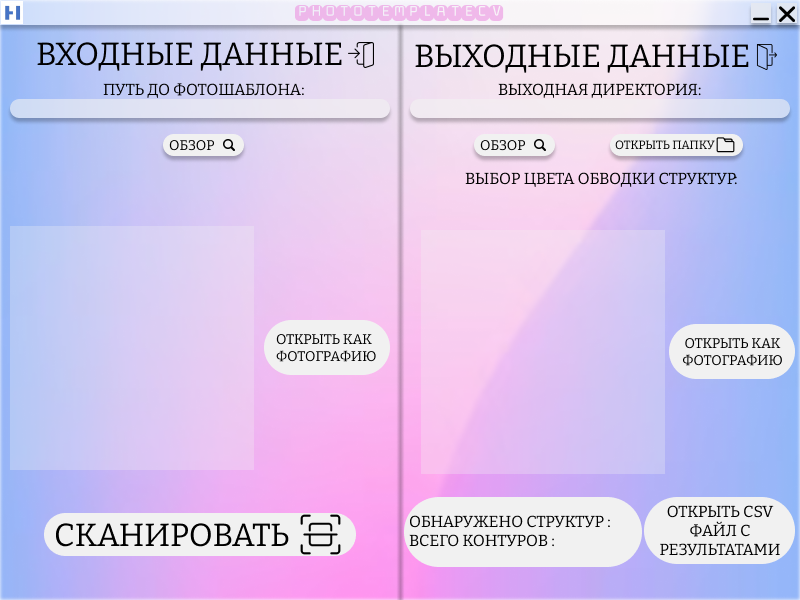
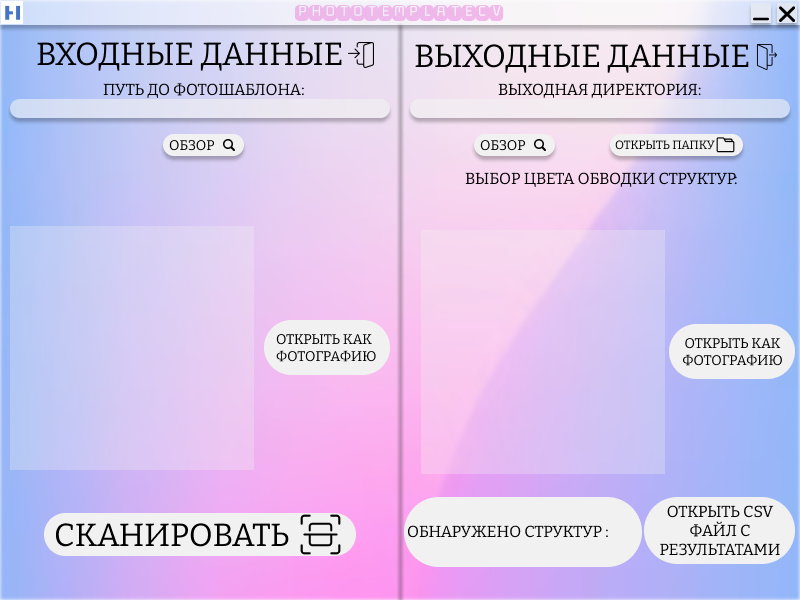
Исправлена ошибка в тексте интро-диалога; Убрана лишняя информация, получаемая из CV (принято решение её не отображать).

Changed region(s): [[0.5, 0.84, 0.75, 0.93]]

diff --git a/PhotoTemplateCV/MainWindow.xaml b/PhotoTemplateCV/MainWindow.xaml
@@ -11,18 +11,17 @@
             <ImageBrush ImageSource="/Resources/background.png"/>
         </Grid.Background>
         <Canvas x:Name="AboutProgram" Margin="292,0,293,576" Background="Transparent" Cursor="Hand" MouseLeftButtonDown="AboutProgram_MouseLeftButtonDown"/>
-        <Canvas x:Name="InputFileBrowse" Margin="162,134,555,443" Background="Transparent" Cursor="Hand" MouseLeftButtonDown="InputFileBrowse_MouseLeftButtonDown"/>
-        <Canvas x:Name="OutputDirectoryBrowse" Margin="474,134,244,443" Background="Transparent" Cursor="Hand" MouseLeftButtonDown="OutputDirectoryBrowse_MouseLeftButtonDown"/>
-        <Canvas x:Name="OpenDirectory" Margin="610,134,57,443" Background="Transparent" Cursor="Hand" MouseLeftButtonDown="OpenDirectory_MouseLeftButtonDown"/>
+        <Canvas x:Name="InputFileBrowse" Margin="162,134,555,443" Background="Transparent" Cursor="Hand" MouseLeftButtonDown="InputFileBrowse_MouseLeftButtonDown" MouseLeave="InputFileBrowse_MouseLeave" MouseEnter="InputFileBrowse_MouseEnter"/>
+        <Canvas x:Name="OutputDirectoryBrowse" Margin="474,134,244,443" Background="Transparent" Cursor="Hand" MouseLeftButtonDown="OutputDirectoryBrowse_MouseLeftButtonDown" MouseLeave="OutputDirectoryBrowse_MouseLeave" MouseEnter="OutputDirectoryBrowse_MouseEnter"/>
+        <Canvas x:Name="OpenDirectory" Margin="610,134,57,443" Background="Transparent" Cursor="Hand" MouseLeftButtonDown="OpenDirectory_MouseLeftButtonDown" MouseLeave="OpenDirectory_MouseLeave" MouseEnter="OpenDirectory_MouseEnter"/>
         <Canvas x:Name="MinimizeButton" Margin="750,3,28,576" Background="#00C8C8C8" Cursor="Hand" MouseLeftButtonDown="MinimizeButton_MouseLeftButtonDown" MouseLeave="MinimizeButton_MouseLeave" MouseEnter="MinimizeButton_MouseEnter" Focusable="True"/>
         <Canvas x:Name="CloseButton" Margin="777,3,3,576" Cursor="Hand" MouseLeftButtonDown="CloseButton_MouseLeftButtonDown" MouseEnter="CloseButton_MouseEnter" MouseLeave="CloseButton_MouseLeave" Background="#00C8C8C8"/>
-        <Canvas x:Name="OpenInputImage" Margin="264,320,409,225" Background="Transparent" Cursor="Hand" MouseLeftButtonDown="OpenInputImage_MouseLeftButtonDown"/>
+        <Canvas x:Name="OpenInputImage" Margin="264,320,409,225" Background="Transparent" Cursor="Hand" MouseLeftButtonDown="OpenInputImage_MouseLeftButtonDown" MouseLeave="OpenInputImage_MouseLeave" MouseEnter="OpenInputImage_MouseEnter"/>
         <Canvas Margin="669,324,3,220" Background="Transparent" Cursor="Hand"/>
-        <Canvas x:Name="ScanButton" Margin="44,513,444,44" Background="Transparent" Cursor="Hand" MouseLeftButtonDown="ScanButton_MouseLeftButtonDown"/>
-        <Canvas x:Name="OpenOutputImage" Margin="669,324,3,220" Background="Transparent" Cursor="Hand" MouseLeftButtonDown="OpenOutputImage_MouseLeftButtonDown"/>
-        <Canvas x:Name="OpenCSVFileButton" Margin="644,497,3,36" Background="Transparent" Cursor="Hand" MouseLeftButtonDown="OpenCSVFileButton_MouseLeftButtonDown"/>
-        <Label x:Name="structuresCountLabel" Content="нет" HorizontalAlignment="Left" Margin="607,507,0,0" VerticalAlignment="Top" Width="37" FontFamily="Bitter" FontSize="16"/>
-        <Label x:Name="contoursCountLabel" Content="нет" HorizontalAlignment="Left" Margin="554,526,0,0" VerticalAlignment="Top" FontFamily="Bitter" FontSize="16"/>
+        <Canvas x:Name="ScanButton" Margin="44,513,444,44" Background="Transparent" Cursor="Hand" MouseLeftButtonDown="ScanButton_MouseLeftButtonDown" MouseLeave="ScanButton_MouseLeave" MouseEnter="ScanButton_MouseEnter"/>
+        <Canvas x:Name="OpenOutputImage" Margin="669,324,3,220" Background="Transparent" Cursor="Hand" MouseLeftButtonDown="OpenOutputImage_MouseLeftButtonDown" MouseLeave="OpenOutputImage_MouseLeave" MouseEnter="OpenOutputImage_MouseEnter"/>
+        <Canvas x:Name="OpenCSVFileButton" Margin="644,497,3,36" Background="Transparent" Cursor="Hand" MouseLeftButtonDown="OpenCSVFileButton_MouseLeftButtonDown" MouseLeave="OpenCSVFileButton_MouseLeave" MouseEnter="OpenCSVFileButton_MouseEnter"/>
+        <Label x:Name="structuresCountLabel" Content="нет" HorizontalAlignment="Left" Margin="607,516,0,0" VerticalAlignment="Top" Width="37" FontFamily="Bitter" FontSize="16"/>
         <Image x:Name="inputImage" HorizontalAlignment="Left" Height="240" Margin="12,228,0,0" VerticalAlignment="Top" Width="240" Stretch="Fill" Cursor="Help" Source="/Resources/fileNotDone.png"/>
         <Image x:Name="outputImage" HorizontalAlignment="Left" Height="240" Margin="423,232,0,0" VerticalAlignment="Top" Width="240" Stretch="Fill" Cursor="Help" Source="/Resources/fileNotDone.png"/>
         <TextBox x:Name="inputFileTextBox" HorizontalAlignment="Left" Margin="10,99,0,0" TextWrapping="Wrap" VerticalAlignment="Top" Width="381" Height="19" Background="Transparent" BorderBrush="#00B3B2AB" Cursor="IBeam" FontFamily="Bitter" FontSize="14" SelectionBrush="#FFC8C8FF" CaretBrush="#FF9A1FE4" MaxLines="1" TextAlignment="Center" VerticalScrollBarVisibility="Disabled" TextChanged="inputFileTextBox_TextChanged"/>

diff --git a/PhotoTemplateCV/MainWindow.xaml.cs b/PhotoTemplateCV/MainWindow.xaml.cs
@@ -46,7 +46,7 @@ namespace PhotoTemplateCV
 
             // Интро-руководство
             if (settingsFileHasBeenRewrite)
-                MessageBox.Show($"Программа позволяет анализировать содержимое изображений, находить геометрические структуры и обозначать их границы линиями из трёх разных цветов: зелёным, голубым и красным. На вход получаются изображения разрешением 240x240px в формате JPG, содержащие структуры на белом фонеПрограмма разделена на две части: для входных и выходных данных.{Environment.NewLine}{Environment.NewLine}Обратите внимание, что в указанную выходную директорию будут сохраняться CSV файл с результатами (при его наличии данные новых сканирований будут добавляться) и выходные изображения (название изображения состоит из названия исходного изображения, постфикса _output и случайной комбинации цифр). По умолчанию выходная директория соответствует рабочей директории программы, изменить её можно в секции выходных данных.{Environment.NewLine}{Environment.NewLine}Авторы проекта: {Environment.NewLine} Николай Юрченко (kolya112) {Environment.NewLine} Даниил Бойков; {Environment.NewLine}{Environment.NewLine} Команда \"Кодовые пионеры\"", "Добро пожаловать в PhotoTemplateCV",
+                MessageBox.Show($"Программа позволяет анализировать содержимое изображений, находить геометрические структуры и обозначать их границы линиями из трёх разных цветов: зелёным, голубым и красным. На вход получаются изображения разрешением 240x240px в формате JPG, содержащие структуры на белом фоне. Программа разделена на две части: для входных и выходных данных.{Environment.NewLine}{Environment.NewLine}Обратите внимание, что в указанную выходную директорию будут сохраняться CSV файл с результатами (при его наличии данные новых сканирований будут добавляться) и выходные изображения (название изображения состоит из названия исходного изображения, постфикса _output и случайной комбинации цифр). По умолчанию выходная директория соответствует рабочей директории программы, изменить её можно в секции выходных данных.{Environment.NewLine}{Environment.NewLine}Авторы проекта: {Environment.NewLine} Николай Юрченко (kolya112) {Environment.NewLine} Даниил Бойков; {Environment.NewLine}{Environment.NewLine} Команда \"Кодовые пионеры\"", "Добро пожаловать в PhotoTemplateCV",
                     MessageBoxButton.OK, MessageBoxImage.Information);
 
             // Автозаполнение полей из настроек
@@ -92,7 +92,7 @@ namespace PhotoTemplateCV
 
             // Интро-руководство
             if (settingsFileHasBeenRewrite)
-                MessageBox.Show($"Программа позволяет анализировать содержимое изображений, находить геометрические структуры и обозначать их границы линиями из трёх разных цветов: зелёным, голубым и красным. На вход получаются изображения разрешением 240x240px в формате JPG, содержащие структуры на белом фонеПрограмма разделена на две части: для входных и выходных данных.{Environment.NewLine}{Environment.NewLine}Обратите внимание, что в указанную выходную директорию будут сохраняться CSV файл с результатами (при его наличии данные новых сканирований будут добавляться) и выходные изображения (название изображения состоит из названия исходного изображения, постфикса _output и случайной комбинации цифр). По умолчанию выходная директория соответствует рабочей директории программы, изменить её можно в секции выходных данных.{Environment.NewLine}{Environment.NewLine}Авторы проекта: {Environment.NewLine} Николай Юрченко (kolya112) {Environment.NewLine} Даниил Бойков; {Environment.NewLine}{Environment.NewLine} Команда \"Кодовые пионеры\"", "Добро пожаловать в PhotoTemplateCV",
+                MessageBox.Show($"Программа позволяет анализировать содержимое изображений, находить геометрические структуры и обозначать их границы линиями из трёх разных цветов: зелёным, голубым и красным. На вход получаются изображения разрешением 240x240px в формате JPG, содержащие структуры на белом фоне. Программа разделена на две части: для входных и выходных данных.{Environment.NewLine}{Environment.NewLine}Обратите внимание, что в указанную выходную директорию будут сохраняться CSV файл с результатами (при его наличии данные новых сканирований будут добавляться) и выходные изображения (название изображения состоит из названия исходного изображения, постфикса _output и случайной комбинации цифр). По умолчанию выходная директория соответствует рабочей директории программы, изменить её можно в секции выходных данных.{Environment.NewLine}{Environment.NewLine}Авторы проекта: {Environment.NewLine} Николай Юрченко (kolya112) {Environment.NewLine} Даниил Бойков; {Environment.NewLine}{Environment.NewLine} Команда \"Кодовые пионеры\"", "Добро пожаловать в PhotoTemplateCV",
                     MessageBoxButton.OK, MessageBoxImage.Information);
 
             // Автозаполнение полей из настроек
@@ -378,15 +378,14 @@ namespace PhotoTemplateCV
             {
                 var core = new Core(pathToTemplate, outputDirectory, Common.Global.lastColor);
 
-                (int structuresCount, int bordersCount, string outputImagePath) = core.Execute();
+                (int structuresCount, string outputImagePath) = core.Execute();
 
-                MessageBox.Show("Сканирование успешно завершено. Информация о количестве найденных структур и количестве границ доступна в соответствующем окне. Выходное изображение сохранено и отображено в программе, информация о сканировании внесена в файл scanner_info.csv", "Сканирование завершено",
+                MessageBox.Show("Сканирование успешно завершено. Информация о количестве найденных структур доступна в соответствующем окне. Выходное изображение сохранено и отображено в программе, информация о сканировании внесена в файл scanner_info.csv", "Сканирование завершено",
                     MessageBoxButton.OK, MessageBoxImage.Information);
 
                 Common.Global.lastOutputImagePath = outputImagePath;
                 outputImage.Source = new BitmapImage(new Uri(outputImagePath));
                 structuresCountLabel.Content = structuresCount.ToString();
-                contoursCountLabel.Content = bordersCount.ToString();
 
                 Common.Functions.WriteDataToCSV(outputDirectory + "\\scanner_info.csv", Path.GetFileName(pathToTemplate), structuresCount);
 
@@ -420,6 +419,76 @@ namespace PhotoTemplateCV
             else
                 MessageBox.Show("CSV-файл с результатми сканирований изображений (фотошаблонов) в выбранной выходной директории не найден. Возможно, он был удалён или после последнего сканирования производилась смена выходной директории.", "CSV-файл не найден",
                     MessageBoxButton.OK, MessageBoxImage.Warning);
+        }
+
+        private void OutputDirectoryBrowse_MouseLeave(object sender, MouseEventArgs e)
+        {
+
+        }
+
+        private void OutputDirectoryBrowse_MouseEnter(object sender, MouseEventArgs e)
+        {
+
+        }
+
+        private void OpenDirectory_MouseLeave(object sender, MouseEventArgs e)
+        {
+
+        }
+
+        private void OpenDirectory_MouseEnter(object sender, MouseEventArgs e)
+        {
+
+        }
+
+        private void InputFileBrowse_MouseLeave(object sender, MouseEventArgs e)
+        {
+
+        }
+
+        private void InputFileBrowse_MouseEnter(object sender, MouseEventArgs e)
+        {
+
+        }
+
+        private void OpenInputImage_MouseLeave(object sender, MouseEventArgs e)
+        {
+
+        }
+
+        private void OpenInputImage_MouseEnter(object sender, MouseEventArgs e)
+        {
+
+        }
+
+        private void OpenOutputImage_MouseLeave(object sender, MouseEventArgs e)
+        {
+
+        }
+
+        private void OpenOutputImage_MouseEnter(object sender, MouseEventArgs e)
+        {
+
+        }
+
+        private void ScanButton_MouseLeave(object sender, MouseEventArgs e)
+        {
+
+        }
+
+        private void ScanButton_MouseEnter(object sender, MouseEventArgs e)
+        {
+
+        }
+
+        private void OpenCSVFileButton_MouseLeave(object sender, MouseEventArgs e)
+        {
+
+        }
+
+        private void OpenCSVFileButton_MouseEnter(object sender, MouseEventArgs e)
+        {
+
         }
     }
 }

diff --git a/PTComputerVisionModule/Core.cs b/PTComputerVisionModule/Core.cs
@@ -52,7 +52,7 @@ namespace PTComputerVisionModule
         }
 
         // Функция-запускатор работы Emgu.CV над фотошаблоном
-        public (int structuresCount, int bordersCount, string imageOutputPath) Execute()
+        public (int structuresCount, string imageOutputPath) Execute()
         {
             try
             {
@@ -94,7 +94,7 @@ namespace PTComputerVisionModule
 
                 CvInvoke.Imwrite(_outputPath, outputImage);
 
-                return (structureCount, contours.Size, _outputPath);
+                return (structureCount, _outputPath);
             }
             catch (IOException)
             {
